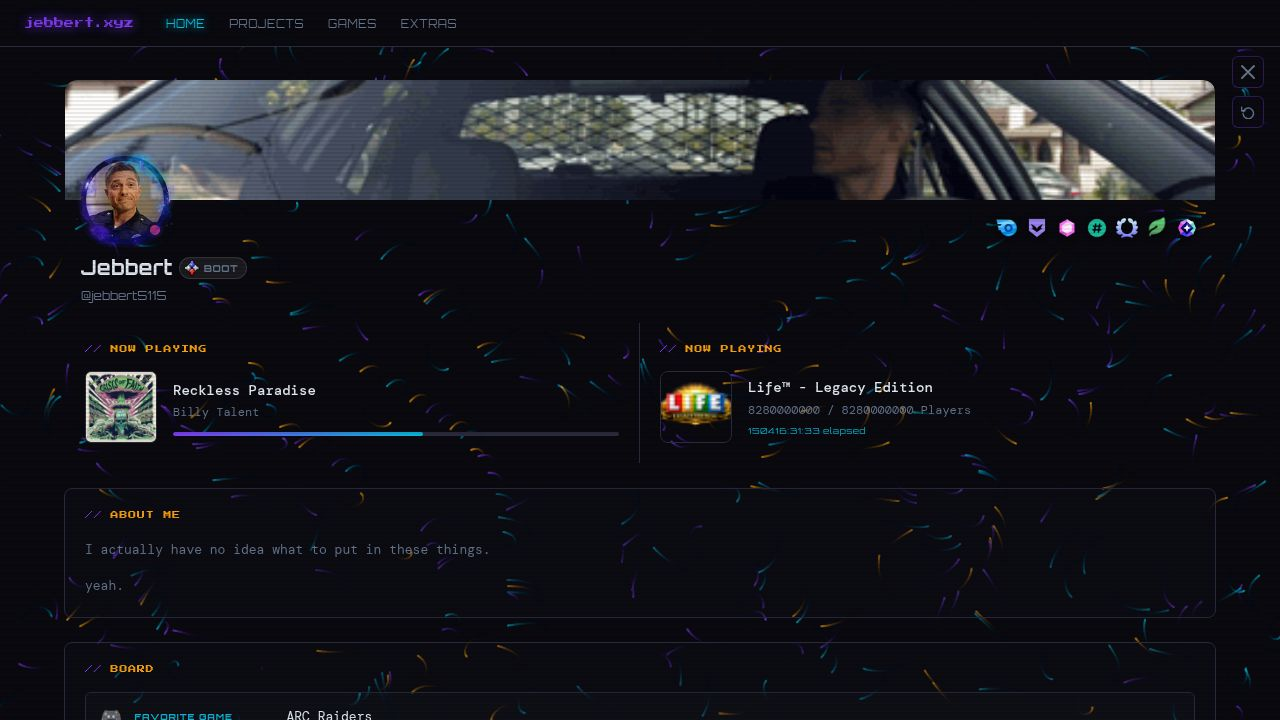
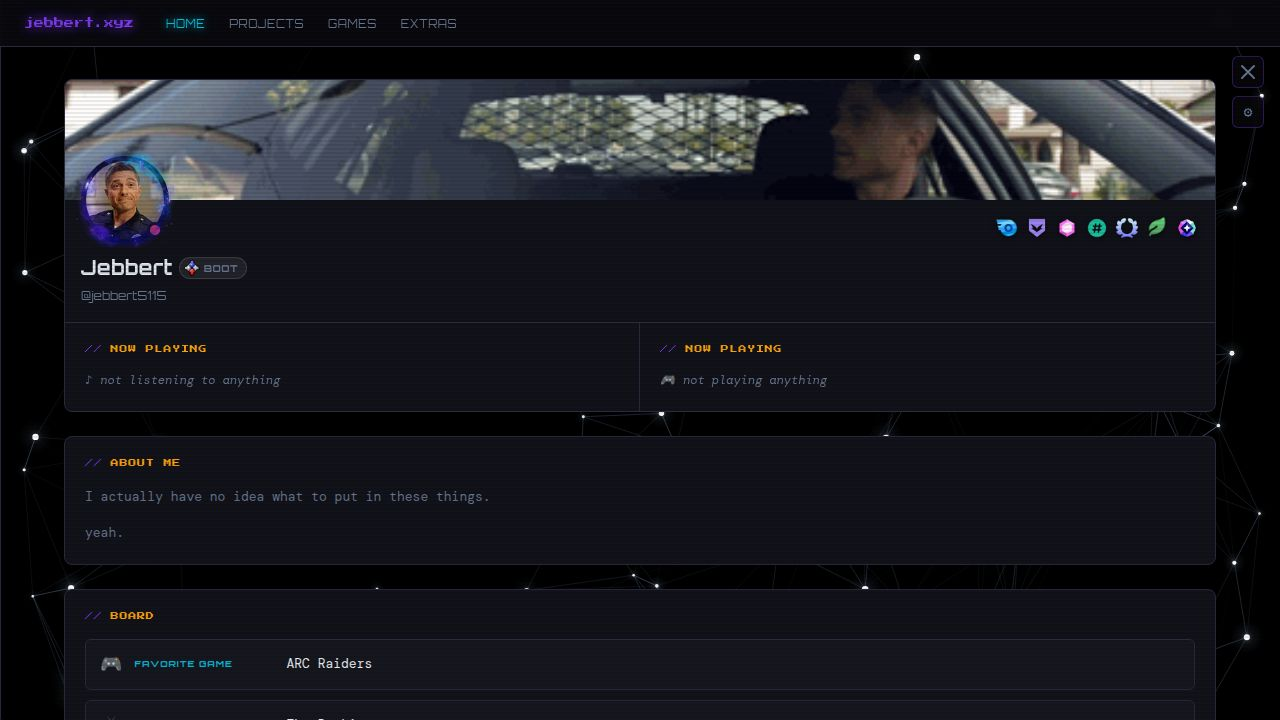
Improve constellation animation and button placement
Update ConstellationCanvas.tsx to reorder controls, implement star wander physics, and add a drag release cooldown. Adjust CSS in index.css to reposition controls to the top-right.

Replit-Commit-Author: Agent
Replit-Commit-Session-Id: 2d2b7bd2-4cd6-4c60-86f2-0e8aae104939
Replit-Commit-Checkpoint-Type: full_checkpoint
Replit-Commit-Event-Id: 1e9e24c4-2bbe-4846-91e3-1c6ac9dcb13e
Replit-Commit-Screenshot-Url: https://storage.googleapis.com/screenshot-production-us-central1/38c91a1a-25a5-445d-9bf4-07d427368e90/2d2b7bd2-4cd6-4c60-86f2-0e8aae104939/QRLS5Lg
Replit-Helium-Checkpoint-Created: true

diff --git a/artifacts/jebbert-xyz/src/components/ConstellationCanvas.tsx b/artifacts/jebbert-xyz/src/components/ConstellationCanvas.tsx
@@ -51,6 +51,7 @@ export default function ConstellationCanvas() {
   const mouseRef = useRef({ x: -9999, y: -9999, active: false });
   const wavesRef = useRef<Wave[]>([]);
   const dragRef = useRef<{ idx: number; prevX: number; prevY: number; vx: number; vy: number } | null>(null);
+  const dragReleasedRef = useRef<number>(-9999);
   const settingsRef = useRef<Settings>(DEFAULTS);
 
   const [settings, setSettings] = useState<Settings>(DEFAULTS);
@@ -87,7 +88,9 @@ export default function ConstellationCanvas() {
         const st = stars[i];
         if (dragRef.current?.idx === i) continue;
 
-        if (mActive) {
+        const dragCooldown = ts - dragReleasedRef.current < 800;
+
+        if (mActive && !dragCooldown) {
           const dx = st.x - mx, dy = st.y - my;
           const d = Math.hypot(dx, dy);
           if (d < s.mouseRadius && d > 0) {
@@ -111,11 +114,33 @@ export default function ConstellationCanvas() {
           }
         }
 
+        // Wander: tiny random nudge each frame so stars never fully stop
+        st.vx += (Math.random() - 0.5) * 0.012 * s.speed;
+        st.vy += (Math.random() - 0.5) * 0.012 * s.speed;
+
         const spd = Math.hypot(st.vx, st.vy);
-        const maxSpd = 3.5 * s.speed;
-        if (spd > maxSpd) { st.vx = (st.vx / spd) * maxSpd; st.vy = (st.vy / spd) * maxSpd; }
-        st.vx *= 0.991;
-        st.vy *= 0.991;
+        const baseSpd = 0.28 * s.speed;
+        const maxSpd  = 3.5  * s.speed;
+
+        if (spd > maxSpd) {
+          // Hard cap when too fast
+          st.vx = (st.vx / spd) * maxSpd;
+          st.vy = (st.vy / spd) * maxSpd;
+        } else if (spd > baseSpd) {
+          // Gentle damp only above base speed
+          st.vx *= 0.991;
+          st.vy *= 0.991;
+        } else if (spd > 0.001) {
+          // Below base — nudge back up toward base speed
+          const boost = baseSpd / spd;
+          st.vx *= Math.min(boost, 1.04);
+          st.vy *= Math.min(boost, 1.04);
+        } else {
+          // Completely stopped — give a random kick
+          const a = Math.random() * Math.PI * 2;
+          st.vx = Math.cos(a) * baseSpd;
+          st.vy = Math.sin(a) * baseSpd;
+        }
 
         st.x += st.vx;
         st.y += st.vy;
@@ -272,6 +297,7 @@ export default function ConstellationCanvas() {
         st.vx = dragRef.current.vx * 0.45;
         st.vy = dragRef.current.vy * 0.45;
         dragRef.current = null;
+        dragReleasedRef.current = performance.now();
       } else if (!isInteractive) {
         wavesRef.current.push({ x: e.clientX, y: e.clientY, born: performance.now() });
       }
@@ -284,6 +310,7 @@ export default function ConstellationCanvas() {
         st.vx = dragRef.current.vx * 0.45;
         st.vy = dragRef.current.vy * 0.45;
         dragRef.current = null;
+        dragReleasedRef.current = performance.now();
       }
     };
 
@@ -307,6 +334,15 @@ export default function ConstellationCanvas() {
       />
 
       <div className="constellation-controls">
+        <button
+          className="canvas-ctrl-btn"
+          onClick={() => setShowSettings(v => !v)}
+          title="Background settings"
+          style={{ fontSize: '15px' }}
+        >
+          {showSettings ? '✕' : '⚙'}
+        </button>
+
         {showSettings && (
           <div className="cs-panel">
             <div className="cs-title">// Background</div>
@@ -359,15 +395,6 @@ export default function ConstellationCanvas() {
             <div className="cs-hint">click anywhere to send a shockwave<br/>drag stars to fling them</div>
           </div>
         )}
-
-        <button
-          className="canvas-ctrl-btn"
-          onClick={() => setShowSettings(v => !v)}
-          title="Background settings"
-          style={{ fontSize: '15px' }}
-        >
-          {showSettings ? '✕' : '⚙'}
-        </button>
       </div>
     </>
   );

diff --git a/artifacts/jebbert-xyz/src/index.css b/artifacts/jebbert-xyz/src/index.css
@@ -1558,7 +1558,7 @@ canvas.flow-field-canvas {
 /* ── Constellation settings panel ── */
 .constellation-controls {
   position: fixed;
-  bottom: 16px;
+  top: 96px;
   right: 16px;
   display: flex;
   flex-direction: column;
